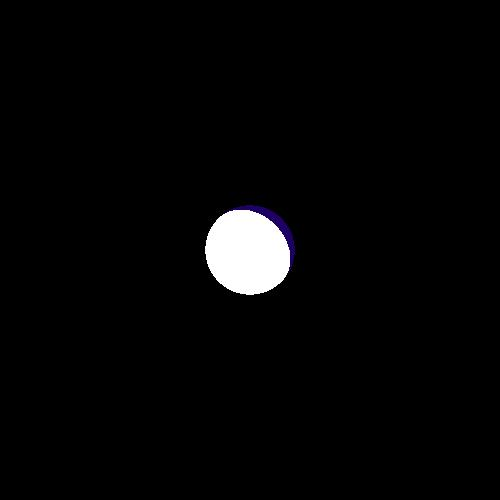
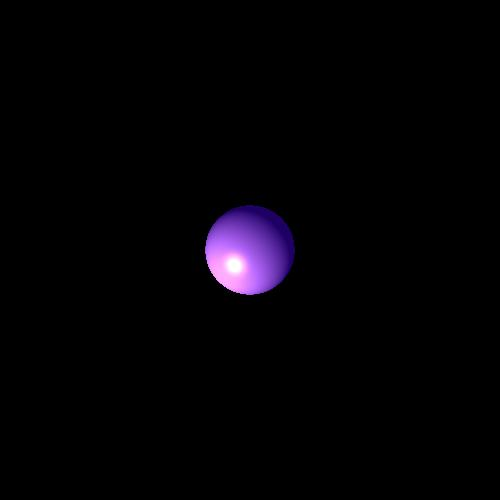
bug fix

Changed region(s): [[0.39, 0.42, 0.6, 0.6]]

diff --git a/src/renderer/Render.java b/src/renderer/Render.java
@@ -82,7 +82,10 @@ public class Render {
 
 	private Color calcSpecular(double ks, Vector l, Vector n, Vector v, int nShininess, Color lightIntensity) {
 		Vector r = l.add(n.multiply(-2 * l.dot_product(n))).normalization();
-		return new Color(lightIntensity).scale(ks * Math.pow(Math.abs(v.dot_product(r)),nShininess));
+		double vr = v.dot_product(r);
+		if(vr > 0 )
+			return new Color(0,0,0);
+		return new Color(lightIntensity).scale(ks * Math.pow(Math.abs(vr),nShininess));
 	}
 
 	private Color calcDiffusive(double kd, Vector l, Vector n, Color lightIntensity) {
